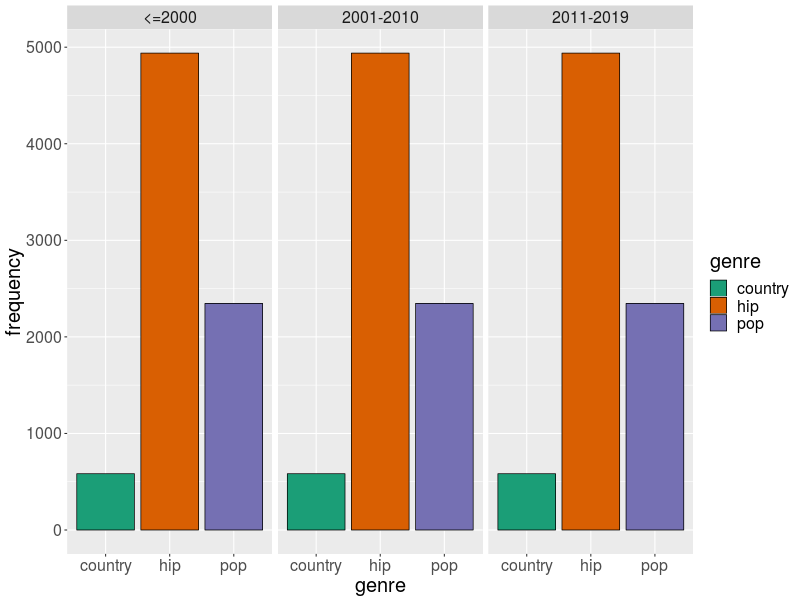
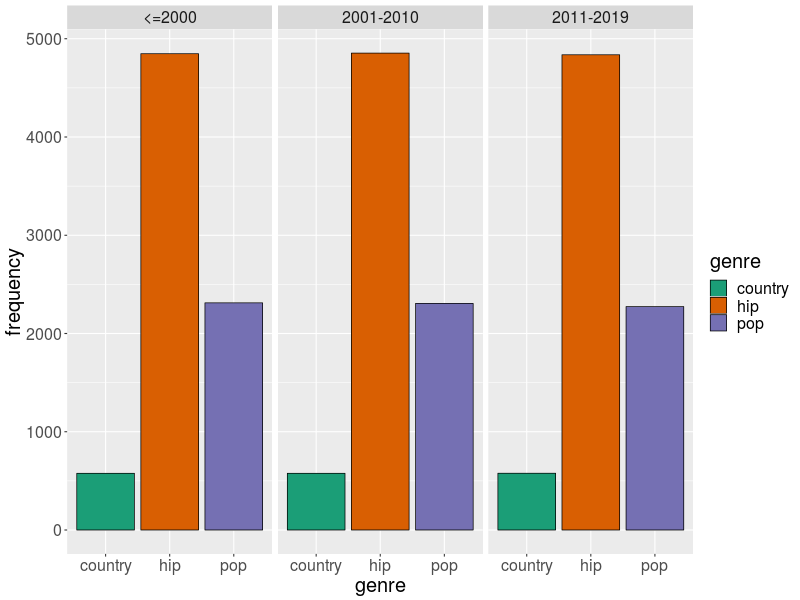
:snail: minor mods to details

diff --git a/src/prune.py b/src/prune.py
@@ -42,7 +42,7 @@ db = database.Database()
 conn = db.get_connection()
 cur = conn.cursor()
 cur.execute("DELETE FROM songs WHERE id NOT IN (SELECT MIN(id) FROM songs GROUP BY artist, title);")
-cur.execute("DELETE FROM songs WHERE non_std_words <= 1.5;")
+cur.execute("DELETE FROM songs WHERE non_std_words >= 0.4;")
 cur.execute("VACUUM;")
 conn.commit()
 conn.close()

diff --git a/src/main.py b/src/main.py
@@ -70,4 +70,4 @@ sentiment.senti()
 
 # run prune pipeline alongside main
 import os
-os.system("python3 prune.py")
+os.system("python3 prune.py")   

diff --git a/src/README.md b/src/README.md
@@ -19,28 +19,22 @@ $ tree -d -L 1
 
 13 directories
 ```
+
 ## Pruning heuristics
 
 After crawling we had 399,342 songs, steming from different genres.
 
-|  Genre  | count  |
+| Genre | Count |
 | ------- | ------ |
-|   Pop   | 81928  |
-|  Rock   | 38864  |
-| Hip Hop | 269761 | 
-| Country | 8789   |
-
+| Pop | 81928 |
+| Rock | 38864 |
+| Hip Hop | 269761 |
+| Country | 8789 |
 
 However, they included many duplicates, non-english songs, unusable metadata and even errors like a "song" from Slavoj Žižek and crossword puzzles from the New York Times. This section will describe how and we removed entries of our data.
 
 * Removing non english songs using the python package `langdetect`
 * Removed meta annotations in the lyrics e.g. [chorus]
 * Merge the smallest genres, since they are similar anyhow (Rock & Country)
-* Remove non sensical entries like "In Progress" or tracklists of albums. We found these were songs with TTR > 85.
-* Remove non-english songs that weren't recognized by `langdetect`. We found these were songs with non-standard-words-ratio <1.5.
-
-
-
-
-
- 
+* Remove non sensical entries like "In Progress" or tracklists of albums. We found these were songs with TTR >= 85.
+* Remove non-english songs that weren't recognized by `langdetect`. We found these were songs with non-standard-words-ratio >= 0.4.
